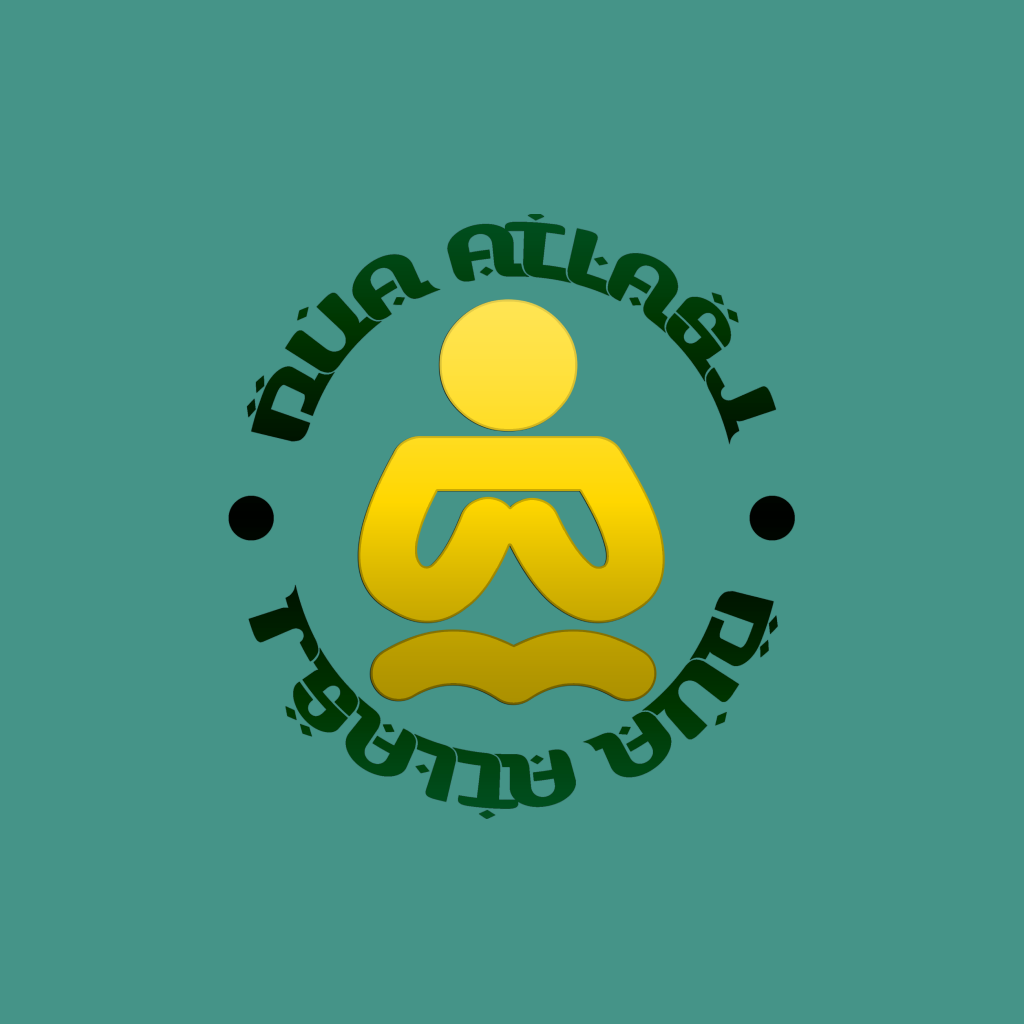
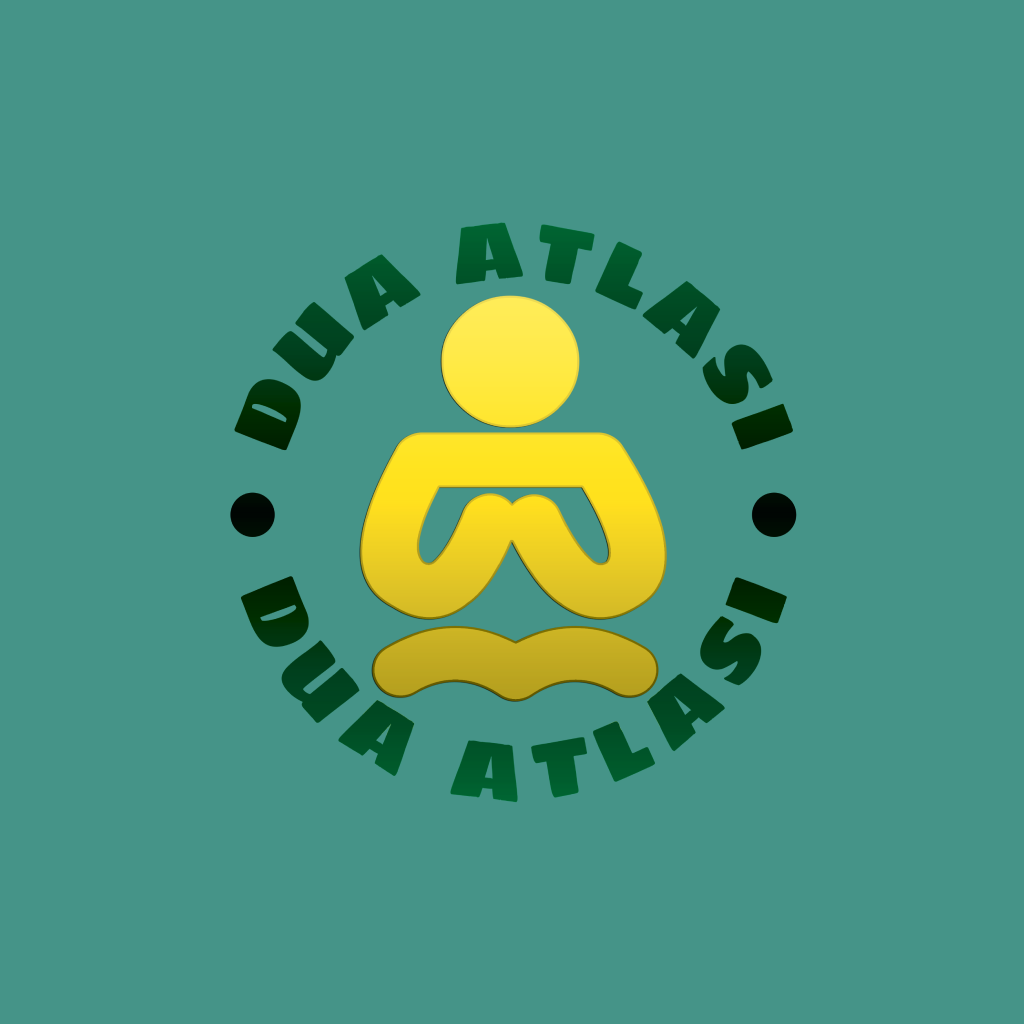
DUA ATLASI App. Final
logo updated - home screen bug (scrollview area) fixed

diff --git a/data/data_with_meaning.js b/data/data_with_meaning.js
@@ -2739,7 +2739,7 @@ export const dataWithMeaning =
                             "footnotes": null
                             },
                             "surah_audio": "",
-                            "meaning": "Belâ, Bela, Korunmak, Musibet, Deprem, Yılan, Yükseklik, Düşmek, Yangın"
+                            "meaning": "Belâ, Bela, Korunmak, Musibet, Deprem, Yılan, Yükseklik, Düşmek, Yangın, Zelzele"
                         },
                         {
                             "id": 6331,
@@ -2762,7 +2762,7 @@ export const dataWithMeaning =
                             "footnotes": null
                             },
                             "surah_audio": "",
-                            "meaning": "Belâ, Bela, Korunmak, Musibet, Deprem, Yılan, Yükseklik, Düşmek, Yangın"
+                            "meaning": "Belâ, Bela, Korunmak, Musibet, Deprem, Yılan, Yükseklik, Düşmek, Yangın, Zelzele"
                         },
                         {
                             "id": 6332,
@@ -2785,7 +2785,7 @@ export const dataWithMeaning =
                             "footnotes": null
                             },
                             "surah_audio": "",
-                            "meaning": "Belâ, Bela, Korunmak, Musibet, Deprem, Yılan, Yükseklik, Düşmek, Yangın, Sağlık, Sağlik, Hasta, Hastane, Ameliyat"
+                            "meaning": "Belâ, Bela, Korunmak, Musibet, Deprem, Yılan, Yükseklik, Düşmek, Yangın, Sağlık, Sağlik, Hasta, Hastane, Ameliyat, Zelzele"
                         },
                         {
                             "id": 6333,
@@ -6399,7 +6399,7 @@ export const dataWithMeaning =
                         "footnotes": null
                         },
                         "surah_audio": "",
-                        "meaning": "Doğal Afet, Doğa, Afet, Sel, Fırtına, Tufan, Deprem, Tayfun "
+                        "meaning": "Doğal Afet, Doğa, Afet, Sel, Fırtına, Tufan, Deprem, Tayfun, Zelzele "
                     },
                     {
                         "id": 6431,

diff --git a/pages/Home.js b/pages/Home.js
@@ -157,7 +157,7 @@ const Home = () => {
       <SearchBar
           
           margin= {2}
-          containerStyle={{ backgroundColor: '#9e544f', borderRadius: 20, padding: 8 }}
+          containerStyle={{ backgroundColor: '#9e544f', borderRadius: 20, padding: 5 }}
           placeholder="Niçin Dua Edeceksiniz?"
           onChangeText={handleChange}
           value={searchText}
@@ -180,7 +180,7 @@ const Home = () => {
           }
           />
       
-          
+      {matchingVerses.length > 0 && 
         <ScrollView style={styles.resultsContainer}
           >
            {showPleaseTypeWarning && (
@@ -267,6 +267,7 @@ const Home = () => {
           ))}
            </View>
         </ScrollView>
+        }
       </View>
     </SafeAreaView>
   );
@@ -304,7 +305,7 @@ const styles = StyleSheet.create({
 
   logo: {
     width: 'auto',
-    height: 46,
+    height: 44,
    
   
  

diff --git a/navigation/Navigator.js b/navigation/Navigator.js
@@ -20,9 +20,10 @@
 
               tabBarActiveTintColor: 'gold',
               tabBarLabelStyle: {
-                fontSize: 13,
-                alignItems: 'center', 
+                fontSize: 12.5,
+               justifyContent: 'space-evenly',
                 marginTop: 43, 
+                fontWeight: 'bold',
                 },
               tabBarStyle: { 
                 backgroundColor: 'rgb(22, 93, 49)',
